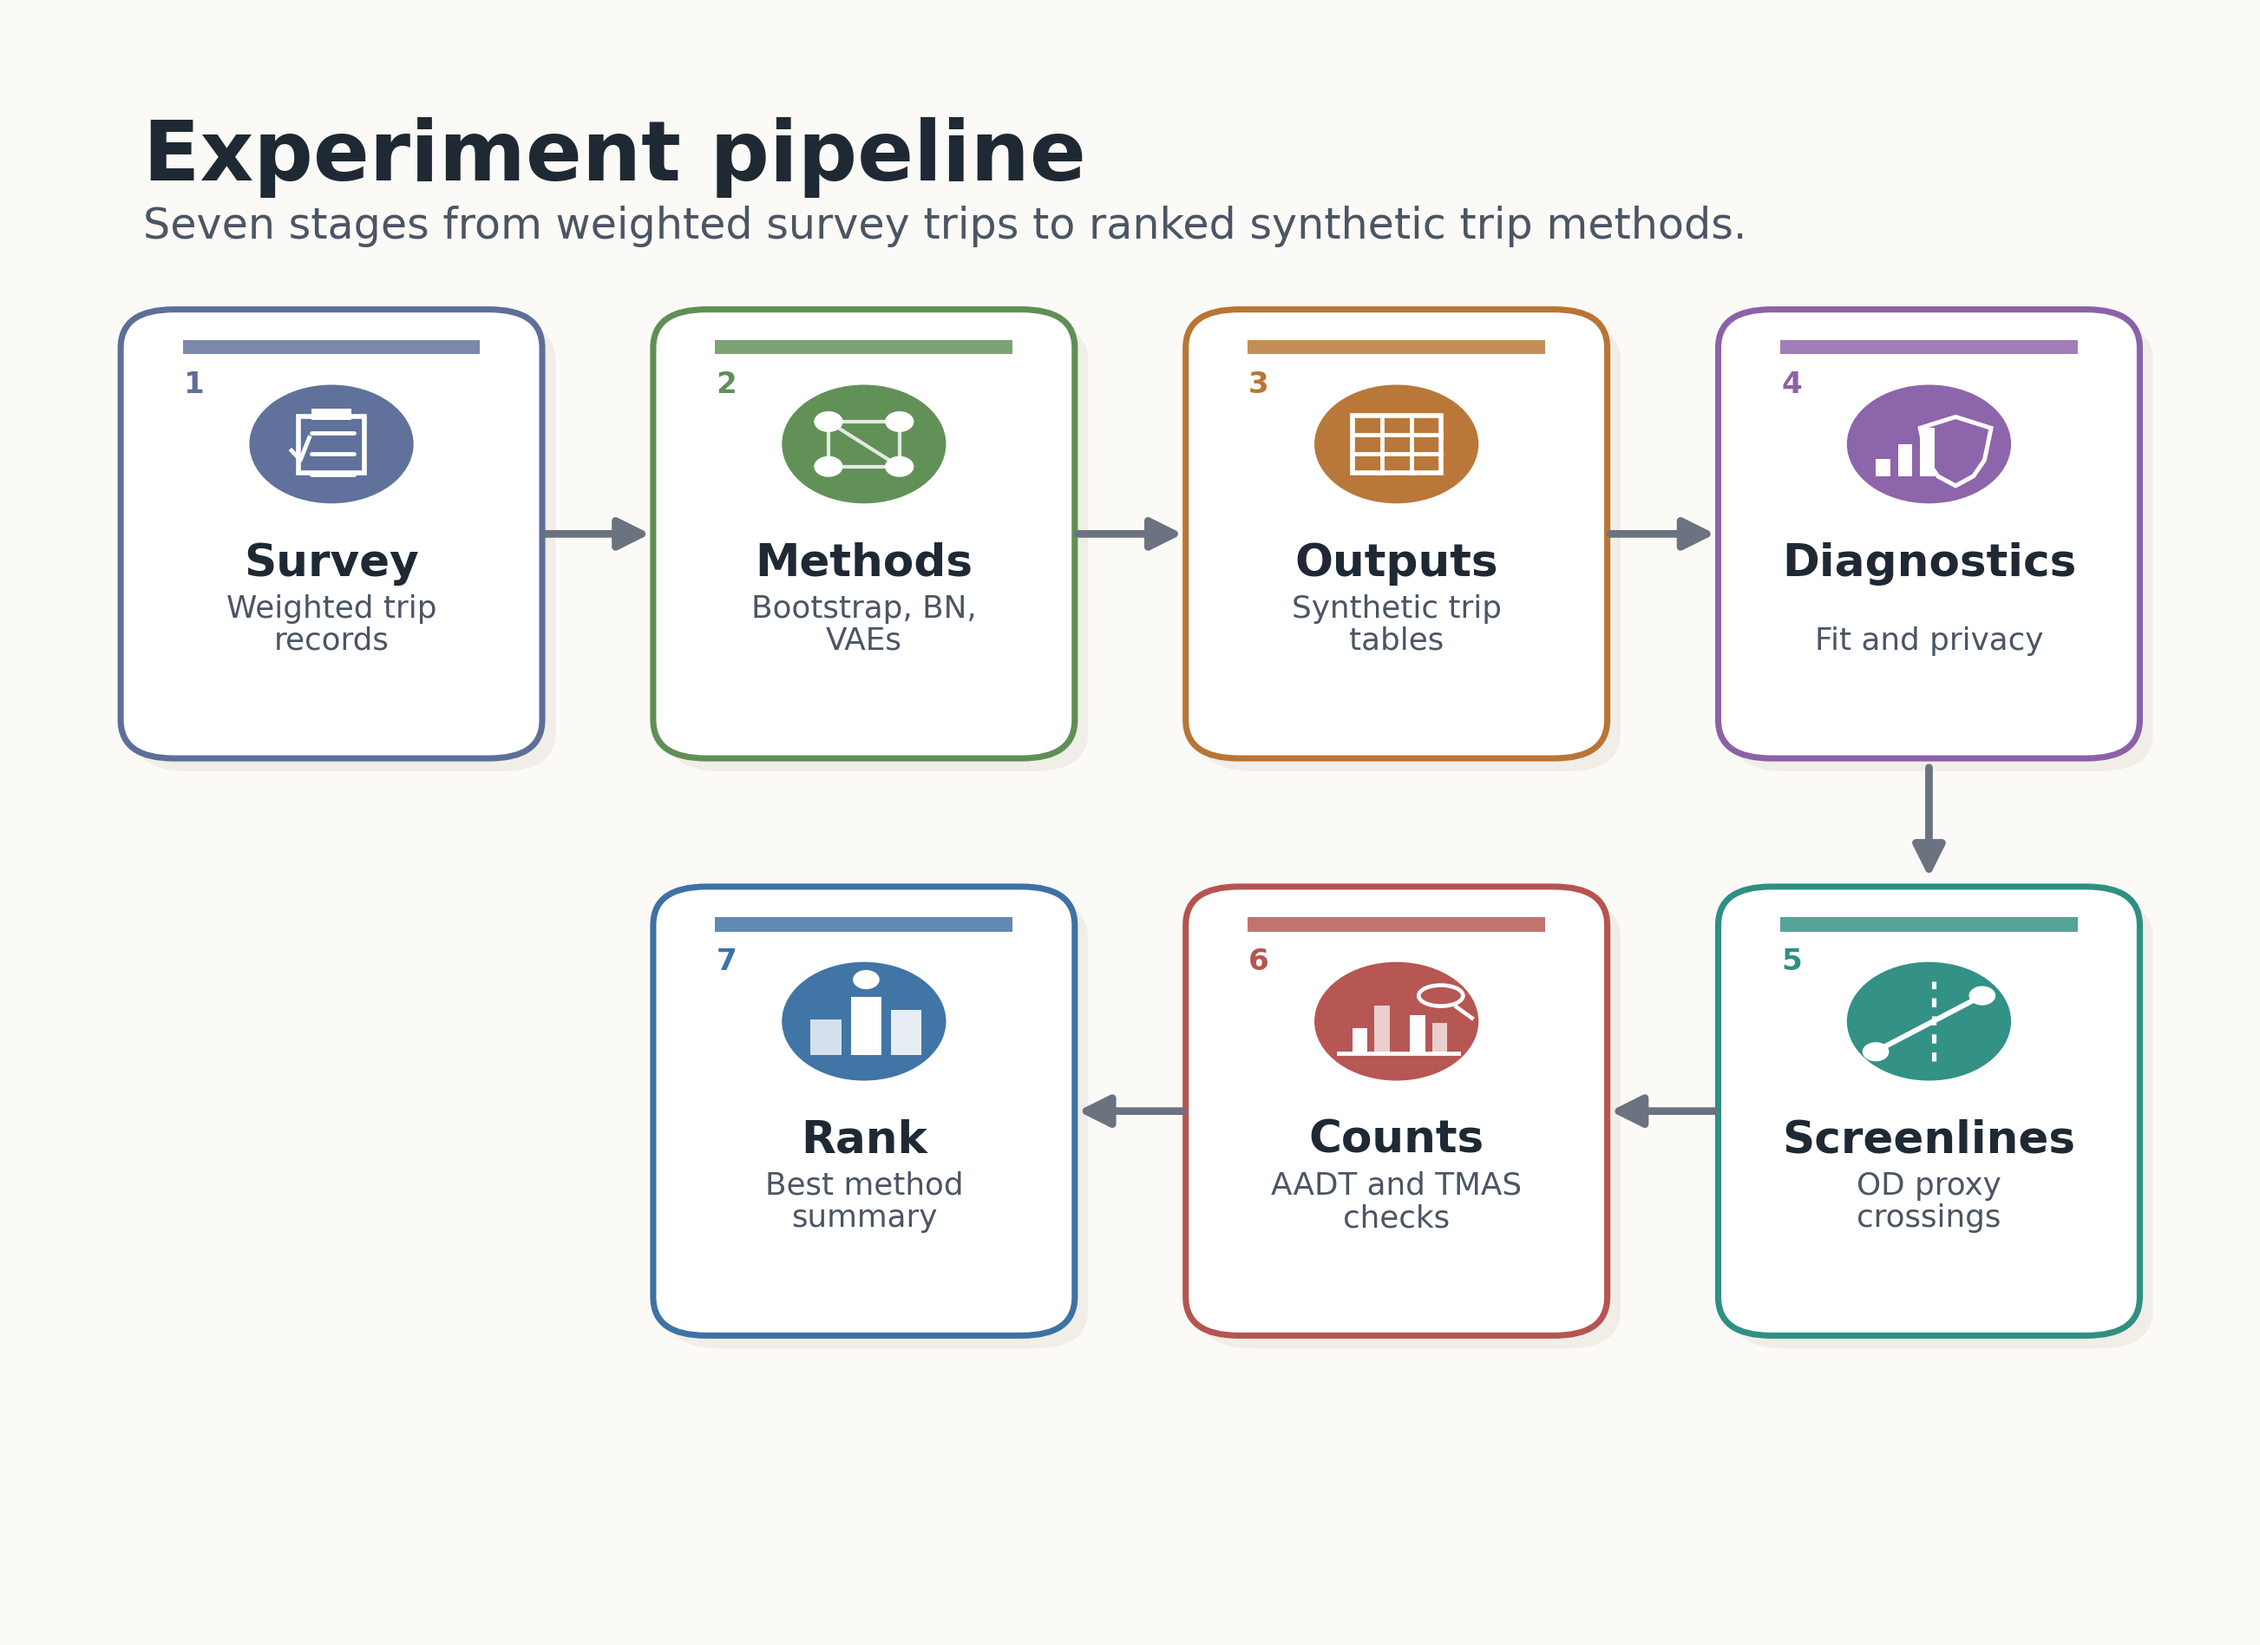
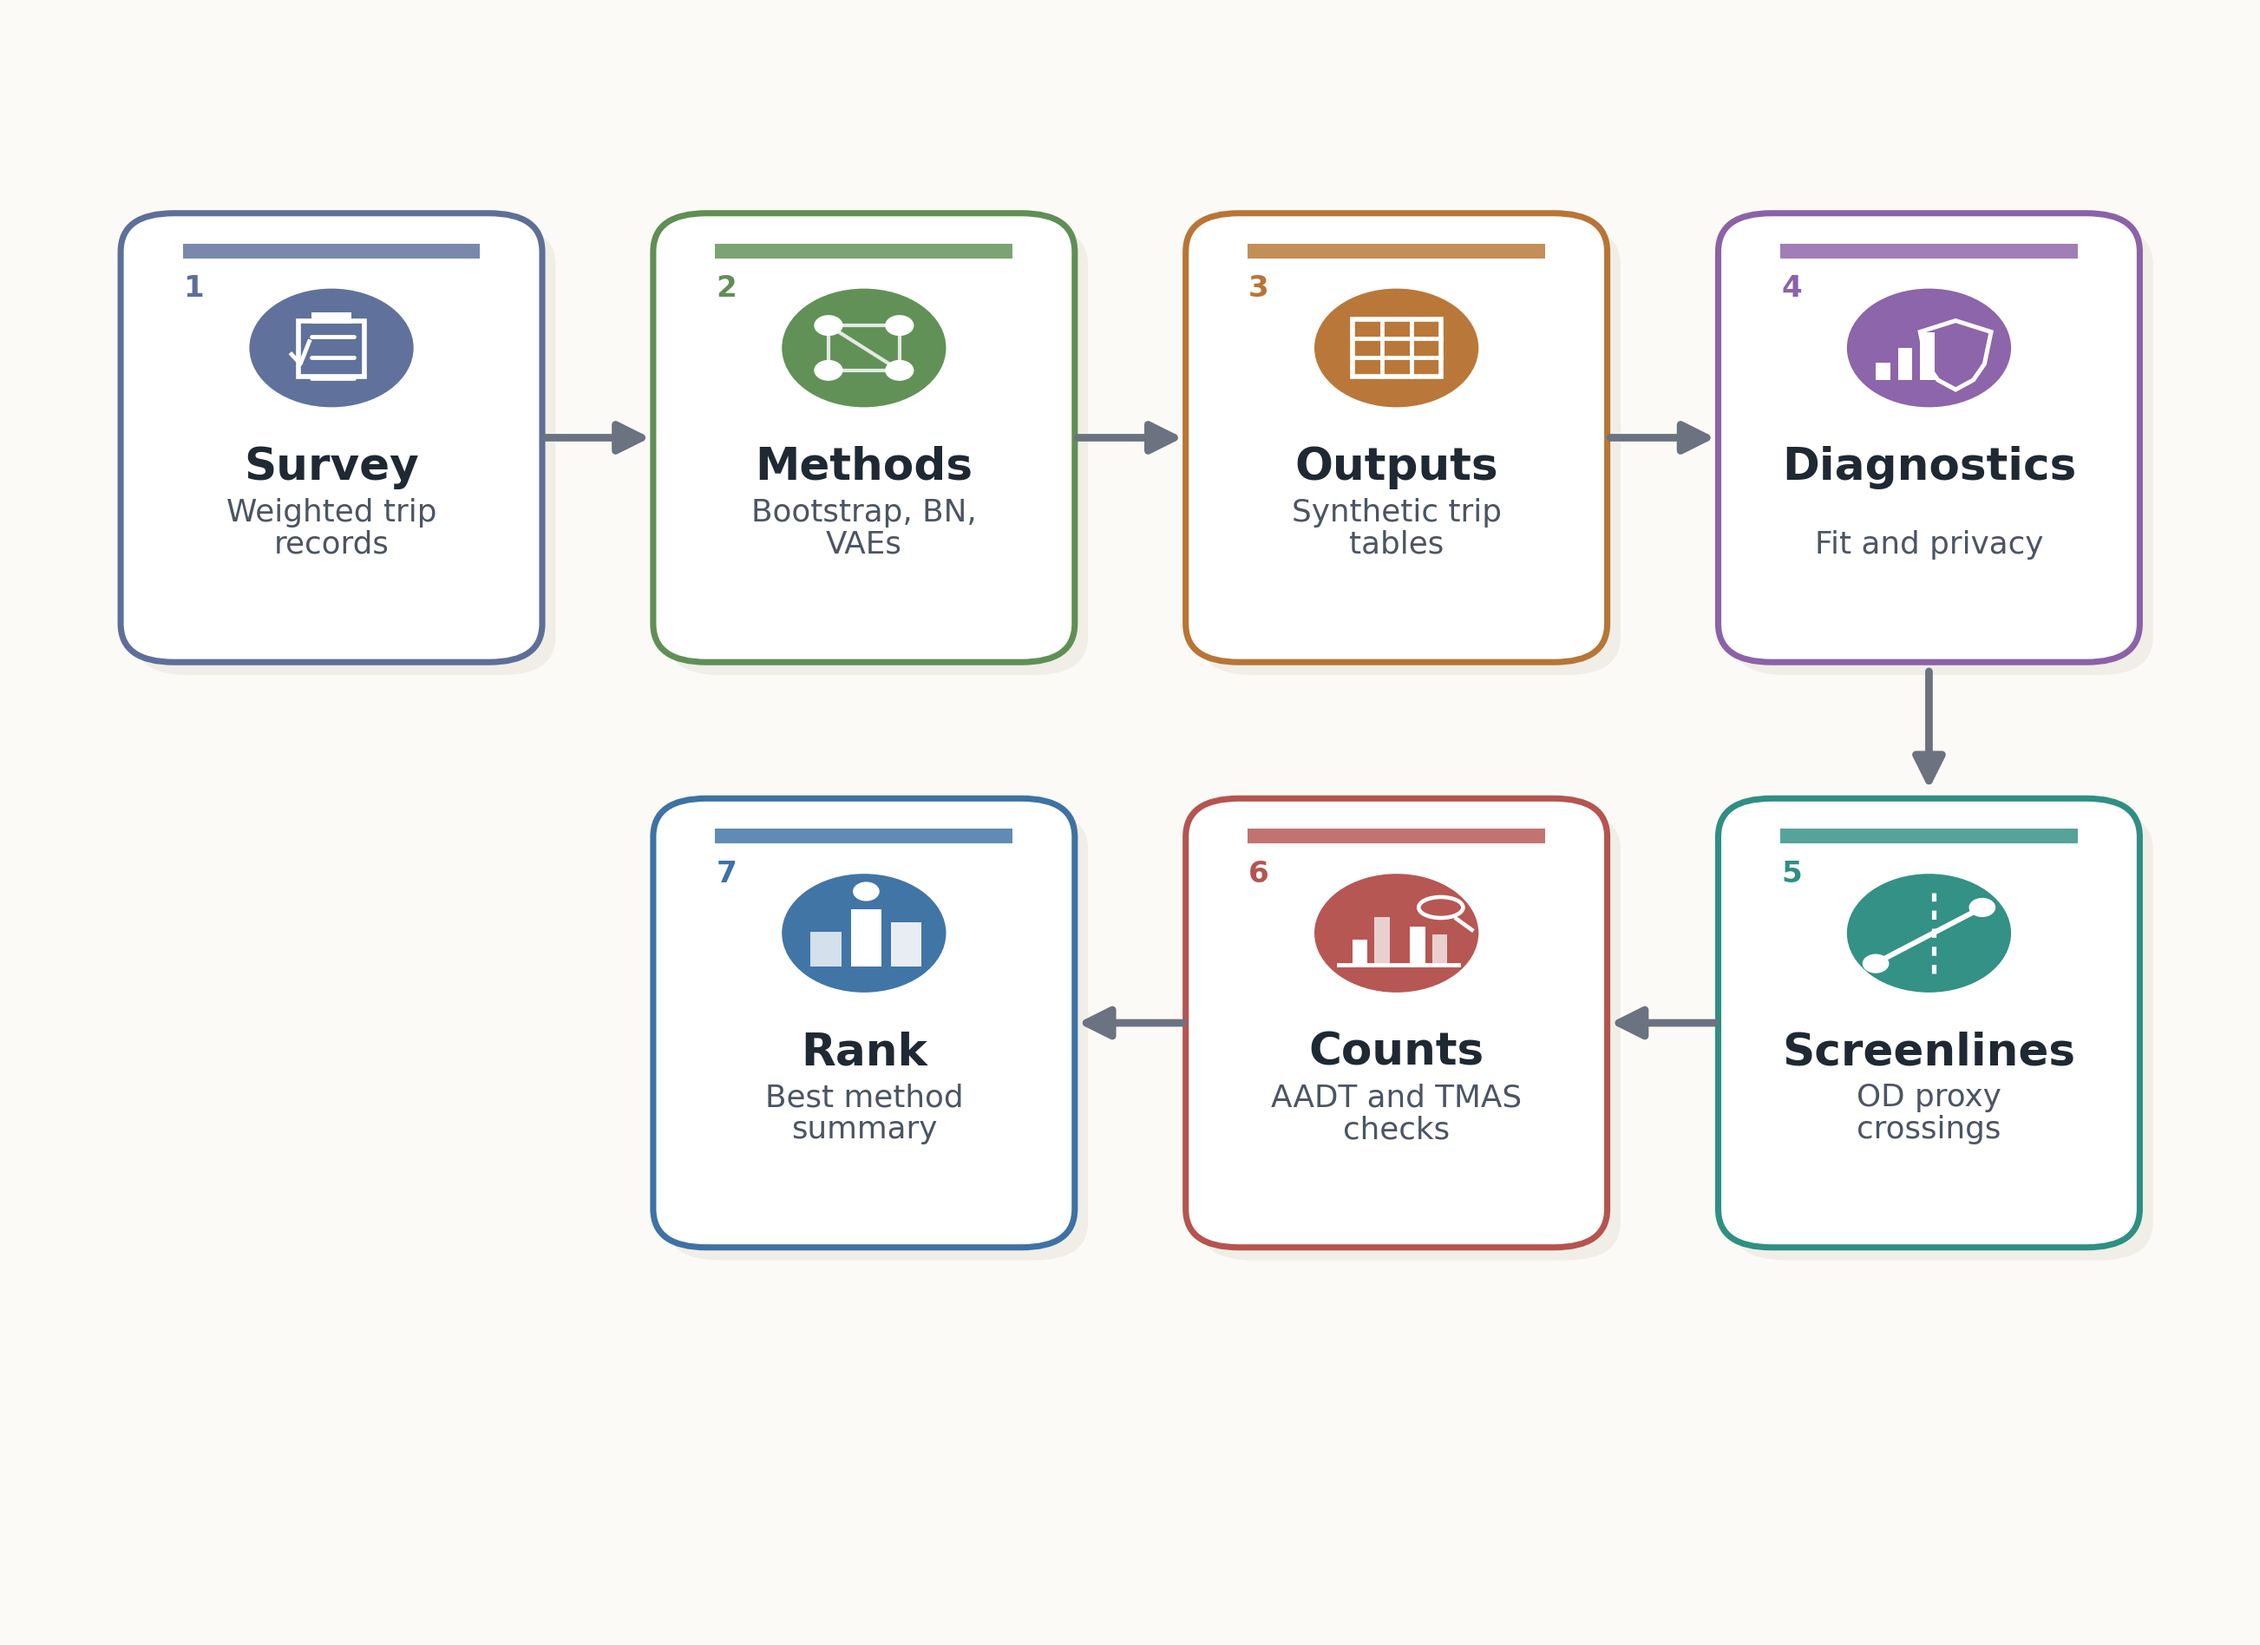
title removed

diff --git a/src/trip_synth/viz/poster_figures.py b/src/trip_synth/viz/poster_figures.py
@@ -235,16 +235,6 @@ def _make_experiment_pipeline(path: Path) -> None:
     ax.set_ylim(0, 1)
     ax.axis("off")
 
-    ax.text(0.055, 0.940, "Experiment pipeline", ha="left", va="top", fontsize=23, fontweight="bold", color="#1f2933")
-    ax.text(
-        0.055,
-        0.885,
-        "Seven stages from weighted survey trips to ranked synthetic trip methods.",
-        ha="left",
-        va="top",
-        fontsize=11.8,
-        color="#4b5563",
-    )
 
     stages = [
         ("Survey", "Weighted trip records", "survey", "#5d6f99"),
@@ -257,8 +247,8 @@ def _make_experiment_pipeline(path: Path) -> None:
     ]
     box_w = 0.170
     box_h = 0.260
-    top_y = 0.550
-    bottom_y = 0.190
+    top_y = 0.610
+    bottom_y = 0.245
     top_xs = [0.055, 0.295, 0.535, 0.775]
     positions = [
         (top_xs[0], top_y),
